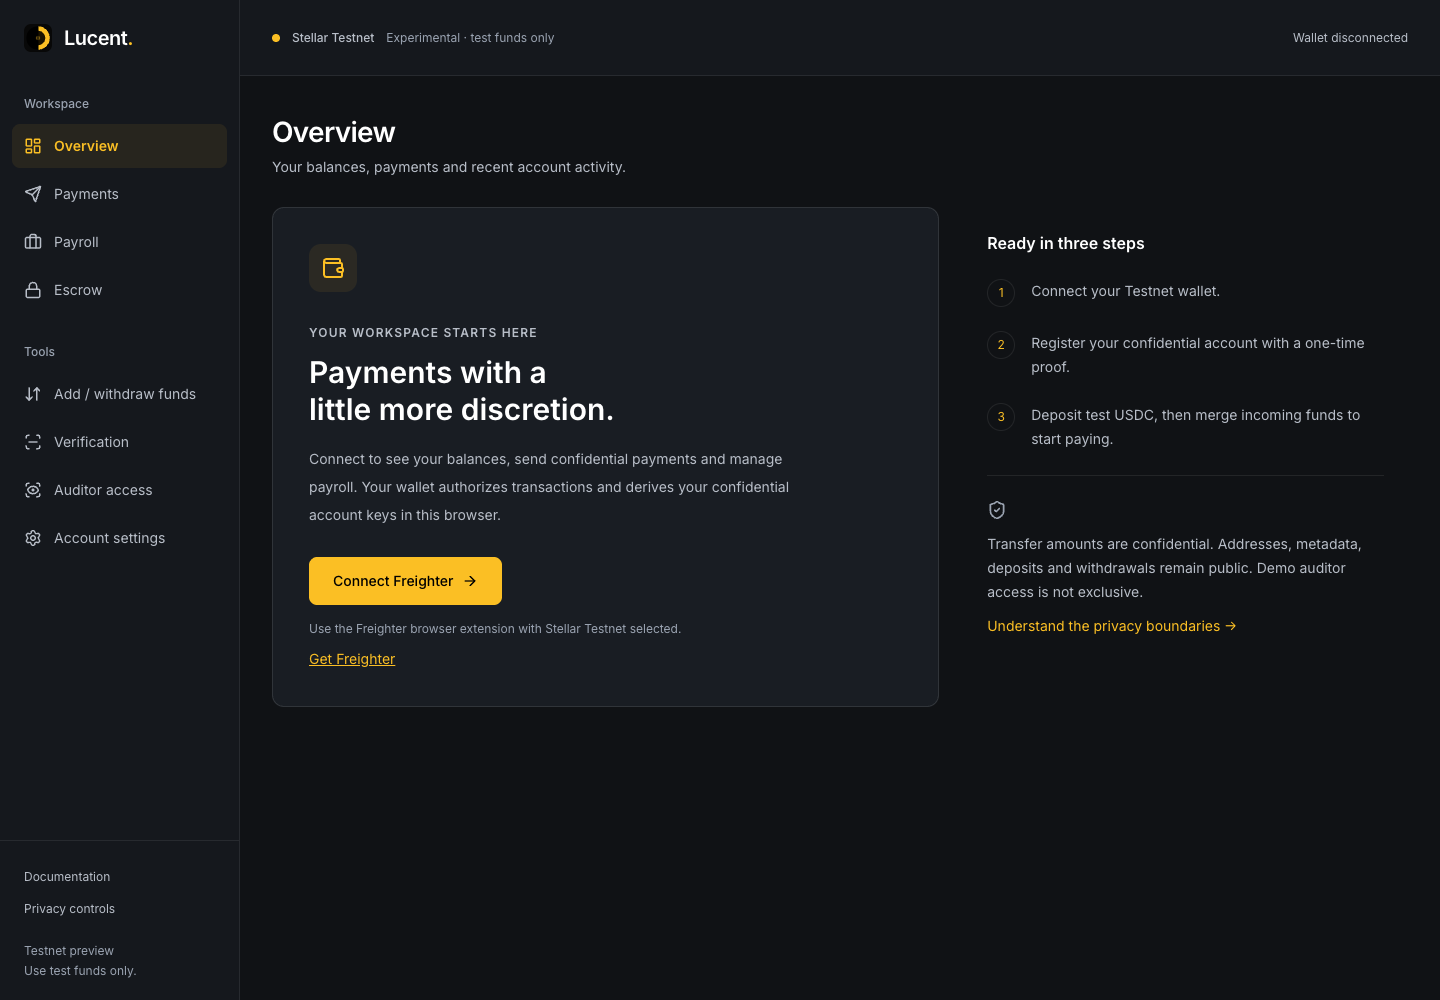
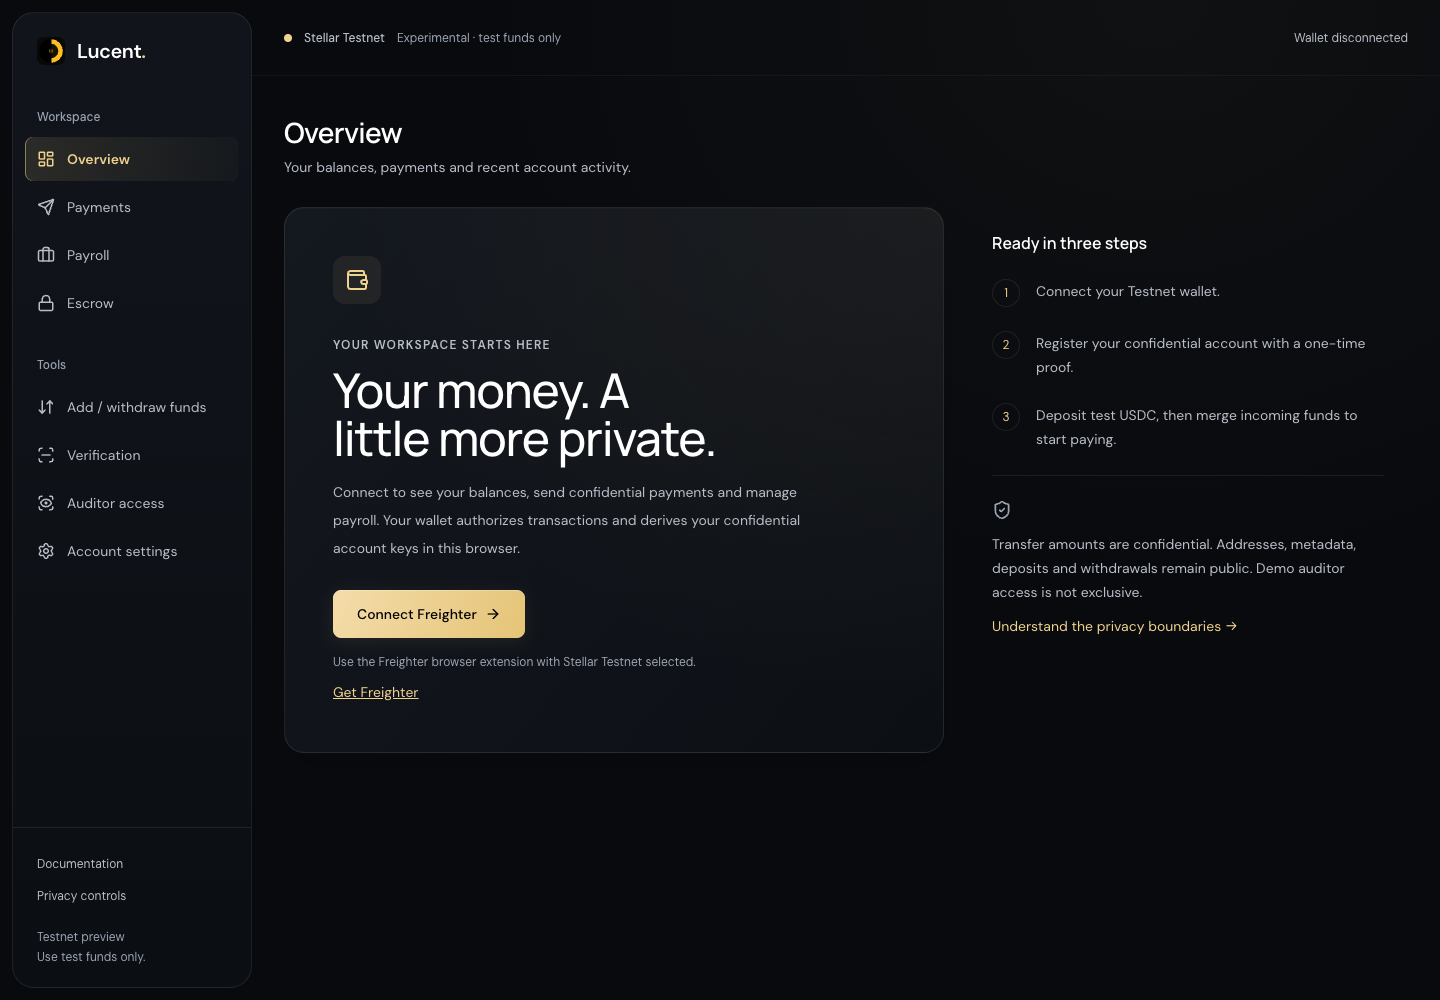
test(ui): verify motion preferences and refresh redesign previews

diff --git a/docs/design/finance-console.md b/docs/design/finance-console.md
@@ -6,7 +6,7 @@ The app uses Next.js, React, Tailwind and the existing Lucent SDK. Wallet-derive
 
 Primary navigation: Overview, Payments, Payroll, Escrow. Supporting tools: Funding (existing /shield), Verification, Auditor, Settings (existing /profile), documentation and privacy controls. Existing URLs remain stable.
 
-Solid dark surfaces and restrained gold preserve Lucent's identity without grain, glows or glass. Native decimal inputs replace the custom keypad. Desktop content uses the available width; mobile navigation retains visible labels. Dialogs use native modal focus management. Browser zoom and reduced motion are supported.
+The revised visual direction uses near-black surfaces, champagne gold, Manrope display typography and DM Sans body text. Floating navigation, softly lit panels and a custom orbital brand illustration replace the earlier grey console styling. Native decimal inputs, purposeful desktop widths and visible mobile navigation labels remain. Dialogs use native modal focus management. Browser zoom and reduced motion are supported.
 
 ## Audit findings addressed
 
@@ -99,3 +99,13 @@ Screenshots are in [screenshots/](./screenshots/). `landing-*`, `home-*`, `verif
 ## Remaining product work
 
 A deployed indexer and verified history coverage remain dependencies for durable statements and complete recovery. The current payroll contract scans can grow expensive as deployment-wide templates and runs increase; UI pagination does not replace indexed queries. Escrow requires a stronger custody design before real funds. Audits, browser/device recovery, cross-tab coordination, granular transaction-stage callbacks and assistive-technology testing need further work. Organizations, approvals, scheduling and persistent employee records were deliberately not fabricated. These are separate engineering milestones, not hidden completed features.
+
+## Visual revision after feedback
+
+The initial visual treatment was rejected. The replacement retains functional improvements while changing the composition and visual system: a large editorial hero with a pointer-responsive orbital SVG, a floating public navigation bar and desktop rail, near-black layered panels, champagne details, a product preview and darker feature sections. The previous light landing section was removed.
+
+Motion includes slow decorative orbital rotation, pointer parallax, staggered workspace entry, button and feature hover feedback, panel lighting and dialog transitions. Decorative artwork is hidden from assistive technology and never represents transaction progress. Financial values are not animated through invented intermediate amounts. Reduced motion disables the decorative animations and parallax.
+
+The revised build and app typecheck passed. The existing mocked financial suite plus 25 connected layout/accessibility checks passed; all 65 production route/viewport checks passed with no detected violations, overflow or runtime errors. Added browser assertions verify normal orbital animation, pointer response and the reduced-motion override. These are UI checks, not new live Testnet settlement evidence.
+
+[New landing hero](./screenshots/landing-hero-1440.png)
